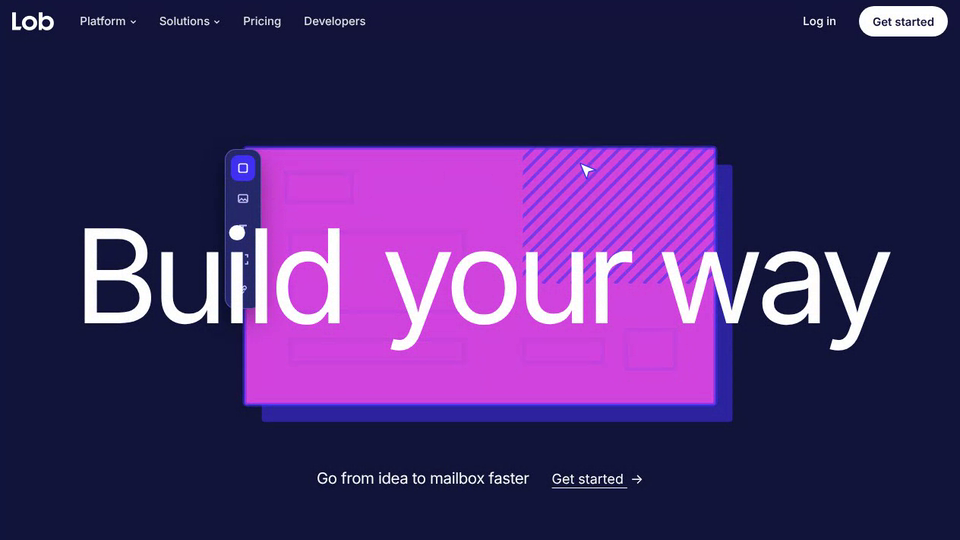
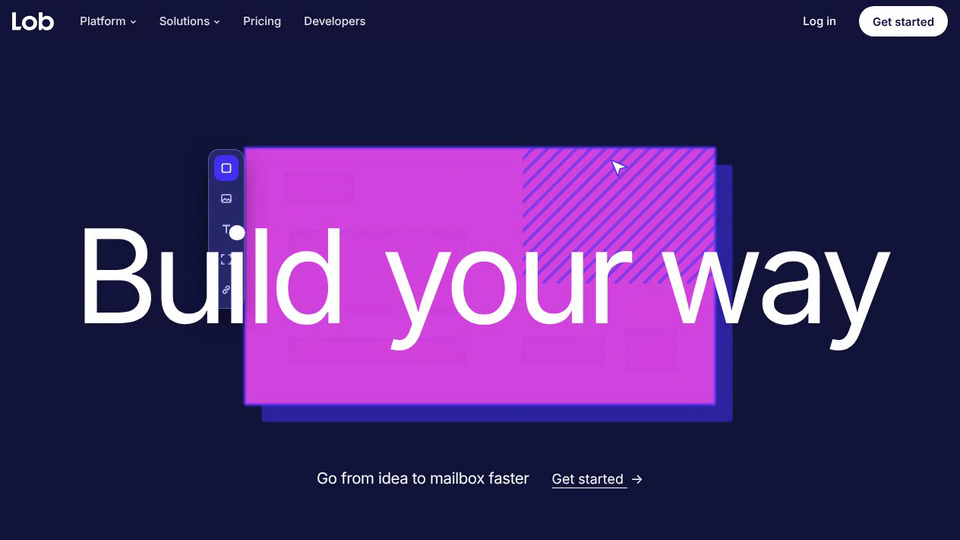
Lob Get Started: roomier hero UI, square QR, boxes stay on the card
Gallery has no image labels and more padding, and sits further right;
QA checks card has more padding; the tool rail sits further left; the
QR card is a plain square; the merge tag and URL pills have more
internal padding; the outlined boxes of the abstract build start and
stay inside the card; the stage is a little narrower on phones so the
gallery is not cut off.

Claude-Session: https://claude.ai/code/session_016rpgucWKf3te6zwsCQ1J4C

Changed region(s): [[0.2188, 0.2667, 0.2812, 0.5926], [0.5938, 0.2963, 0.6562, 0.3259]]

diff --git a/lob-get-started/index.html b/lob-get-started/index.html
@@ -130,27 +130,27 @@ html body nav.back:not(.sb-panel):not(:has(>div))>a,html body nav.back:not(.sb-p
 .qa{position:absolute;left:50%;top:8px;transform:translateX(-50%) translateY(6px);height:30px;padding:0 14px;border-radius:99px;background:#262a6b;border:1px solid rgba(169,156,255,.5);color:#fff;display:flex;align-items:center;gap:8px;font:700 11px var(--sans);letter-spacing:.12em;white-space:nowrap;opacity:0;transition:opacity .3s,transform .3s;z-index:3}
 .qa.on{opacity:1;transform:translateX(-50%)}
 .qa i{width:18px;height:18px;border-radius:5px;background:var(--mint);display:grid;place-items:center;font-style:normal;font-size:11px;color:var(--pu)}
-.rail{position:absolute;left:14px;top:48px;width:48px;padding:7px;border-radius:14px;background:#262a6b;border:1px solid rgba(169,156,255,.4);display:flex;flex-direction:column;gap:6px;box-shadow:0 14px 30px rgba(0,0,0,.35);opacity:0;transform:translateX(-8px);transition:opacity .35s,transform .35s;z-index:3}
+.rail{position:absolute;left:-8px;top:48px;width:48px;padding:7px;border-radius:14px;background:#262a6b;border:1px solid rgba(169,156,255,.4);display:flex;flex-direction:column;gap:6px;box-shadow:0 14px 30px rgba(0,0,0,.35);opacity:0;transform:translateX(-8px);transition:opacity .35s,transform .35s;z-index:3}
 .rail.on{opacity:1;transform:none}
 .rail b{height:34px;border-radius:9px;display:grid;place-items:center;color:#c9c4ff;transition:background .2s,color .2s}
 .rail b svg{width:16px;height:16px}
 .rail b.on{background:var(--pu);color:#fff}
-.gal{position:absolute;left:430px;top:-10px;width:280px;padding:12px;border-radius:12px;background:#262a6b;border:1px solid rgba(169,156,255,.4);color:#fff;box-shadow:0 18px 40px rgba(0,0,0,.4);opacity:0;transform:translateY(-8px);transition:opacity .35s,transform .35s;z-index:3}
+.gal{position:absolute;left:468px;top:-14px;width:284px;padding:16px;border-radius:12px;background:#262a6b;border:1px solid rgba(169,156,255,.4);color:#fff;box-shadow:0 18px 40px rgba(0,0,0,.4);opacity:0;transform:translateY(-8px);transition:opacity .35s,transform .35s;z-index:3}
 .gal.on{opacity:1;transform:none}
-.gal .gt{display:flex;justify-content:space-between;font:600 12px var(--sans);margin-bottom:9px}
+.gal .gt{display:flex;justify-content:space-between;font:600 12px var(--sans);margin-bottom:12px}
 .gal .gn{color:#a99cff;font-weight:500}
-.gal .gth{display:grid;grid-template-columns:1fr 1fr 1fr;gap:9px}
+.gal .gth{display:grid;grid-template-columns:1fr 1fr 1fr;gap:10px}
 .gal .g div{aspect-ratio:1.05;border-radius:7px;background-size:cover;background-position:center;outline:3px solid transparent;outline-offset:2px;transition:outline-color .25s}
 .gal .g.on div{outline-color:var(--hot)}
 .gal .g small{display:block;margin-top:6px;font:600 10.5px var(--sans)}
-.chk{position:absolute;left:0;top:300px;width:250px;padding:12px 12px 10px;border-radius:12px;background:#262a6b;border:1px solid rgba(169,156,255,.4);color:#fff;box-shadow:0 18px 40px rgba(0,0,0,.4);opacity:0;transform:translateY(8px);transition:opacity .35s,transform .35s;z-index:3}
+.chk{position:absolute;left:0;top:252px;width:272px;padding:16px 18px 16px;border-radius:12px;background:#262a6b;border:1px solid rgba(169,156,255,.4);color:#fff;box-shadow:0 18px 40px rgba(0,0,0,.4);opacity:0;transform:translateY(8px);transition:opacity .35s,transform .35s;z-index:3}
 .chk.on{opacity:1;transform:none}
-.chk .ct{font:700 10px var(--sans);letter-spacing:.14em;color:#a99cff;margin-bottom:4px;text-transform:uppercase}
-.chk .cr{display:flex;align-items:center;justify-content:space-between;height:27px;font:500 13px var(--sans);border-top:1px solid rgba(255,255,255,.12)}
+.chk .ct{font:700 10px var(--sans);letter-spacing:.14em;color:#a99cff;margin-bottom:8px;text-transform:uppercase}
+.chk .cr{display:flex;align-items:center;justify-content:space-between;height:36px;font:500 13.5px var(--sans);border-top:1px solid rgba(255,255,255,.12)}
 .chk .cr i{width:20px;height:20px;border-radius:6px;background:rgba(255,255,255,.12);display:grid;place-items:center;transform:scale(.8);transition:background .25s,transform .35s cubic-bezier(.2,1.8,.4,1)}
 .chk .cr.ok i{background:var(--mint);transform:none}
 .chk .cr.ok i::after{content:"";width:8px;height:4px;border-left:2px solid var(--pu);border-bottom:2px solid var(--pu);transform:rotate(-45deg) translate(1px,-1px)}
-.chk .csv{display:flex;align-items:center;gap:7px;margin-top:6px;padding:6px 8px;border-radius:8px;background:rgba(255,255,255,.08);font:700 9.5px var(--sans);letter-spacing:.1em;opacity:0;transition:opacity .3s}
+.chk .csv{display:flex;align-items:center;gap:8px;margin-top:10px;padding:9px 11px;border-radius:8px;background:rgba(255,255,255,.08);font:700 9.5px var(--sans);letter-spacing:.1em;opacity:0;transition:opacity .3s}
 .chk .csv.on{opacity:1}
 .chk .csv b{margin-left:auto;font:600 10px ui-monospace,Menlo,monospace;letter-spacing:0;color:var(--hot)}
 .hcur{position:absolute;left:0;top:0;width:22px;height:22px;z-index:5;opacity:0;transition:opacity .3s;pointer-events:none}
@@ -165,7 +165,7 @@ html body nav.back:not(.sb-panel):not(:has(>div))>a,html body nav.back:not(.sb-p
 .sub .tl span{display:inline-block;margin-left:4px;transition:transform .2s}.sub .tl:hover span{transform:translateX(3px)}
 @media (max-width:640px){
   .stage{height:min(62vh,460px)}
-  .col{width:92vw}
+  .col{width:82vw;margin-left:-2vw}
   .words{font-size:12.5vw;white-space:nowrap}
   .sub{flex-direction:column;gap:10px;text-align:center}
 }
@@ -392,7 +392,7 @@ footer nav{display:flex;gap:22px;margin-left:auto;flex-wrap:wrap}
           <b data-t="link"><svg viewBox="0 0 16 16"><path d="M6.5 9.5l3-3M6 7.5L4.3 9.2a2.2 2.2 0 003.1 3.1L9 10.6M10 8.5l1.7-1.7a2.2 2.2 0 00-3.1-3.1L7 5.4" fill="none" stroke="currentColor" stroke-width="1.5" stroke-linecap="round"/></svg></b>
         </div>
         <div class="gal" id="gal"><div class="gt"><span>Images ›</span><span class="gn">Healthcare</span></div>
-          <div class="gth"><div class="g" id="g1"><div style="background-image:url(assets/care-1.webp)"></div><small>Care team</small></div><div class="g" id="g2"><div style="background-image:url(assets/care-2.webp);background-position:62% 30%"></div><small>Check-up</small></div><div class="g" id="g3"><div style="background-image:url(assets/care-3.webp);background-position:45% 30%"></div><small>Wellness</small></div></div></div>
+          <div class="gth"><div class="g" id="g1"><div style="background-image:url(assets/care-1.webp)"></div></div><div class="g" id="g2"><div style="background-image:url(assets/care-2.webp);background-position:62% 30%"></div></div><div class="g" id="g3"><div style="background-image:url(assets/care-3.webp);background-position:45% 30%"></div></div></div></div>
         <div class="chk" id="chk"><div class="ct">QA checks</div>
           <div class="cr" id="cr1"><span>Deliverability</span><i></i></div>
           <div class="cr" id="cr2"><span>QR code correct</span><i></i></div>
@@ -552,7 +552,8 @@ const POSES = [
   [[285, 405, 108, 60], [147, 654, 284, 160], [976, 809, 80, 80], [302, 873, 284, 46], [661, 873, 130, 46]],
   [[407, 838, 108, 58], [302, 574, 284, 160], [302, 827, 80, 80], [610, 827, 285, 48], [764, 895, 130, 48]],
   [[302, 562, 108, 58], [302, 668, 284, 160], [819, 853, 80, 80], [302, 873, 284, 46], [661, 873, 130, 46]]
-].map((p) => p.map(([x, y, w, h]) => [(x - 243) * CW0 / 714, y - 516, w * CW0 / 714, h]));
+].map((p) => p.map(([x, y, w, h]) => { w = w * CW0 / 714; const pad = 30;   // every box starts and stays inside the card
+  return [Math.min(Math.max((x - 243) * CW0 / 714, pad), CW0 - w - pad), Math.min(Math.max(y - 516, pad), CH0 - h - pad), w, h]; }));
 const EL_ORDER = [3, 4, 2, 0, 1];
 const IMG1 = new Image(); IMG1.src = 'assets/care-1.webp';
 const IMG2 = new Image(); IMG2.src = 'assets/care-2.webp';
@@ -612,9 +613,9 @@ function drawDesign(t){
     if (!res) {
       cx.font = '600 25px ui-monospace, Menlo, monospace';
       const tw = cx.measureText('{{FirstName}}').width;
-      if (chipIn > 0) { cx.save(); cx.translate(53, 76); cx.scale(chipIn, chipIn); rr(0, -25, tw + 20, 38, 8); cx.fillStyle = HOT; cx.fill(); cx.fillStyle = WHITE; cx.fillText('{{FirstName}}', 10, 3); cx.restore(); }
+      if (chipIn > 0) { cx.save(); cx.translate(53, 76); cx.scale(chipIn, chipIn); rr(0, -30, tw + 36, 50, 12); cx.fillStyle = HOT; cx.fill(); cx.fillStyle = WHITE; cx.textBaseline = 'middle'; cx.fillText('{{FirstName}}', 18, -4); cx.restore(); }
       cx.font = '500 38px Inter, Helvetica, Arial, sans-serif'; cx.fillStyle = WHITE;
-      if (n > 0) cx.fillText(',', 53 + tw + 24, 90);
+      if (n > 0) cx.fillText(',', 53 + tw + 40, 90);
     } else {
       const pop = popIn((t - 13.0) / .35);
       cx.font = '500 38px Inter, Helvetica, Arial, sans-serif';
@@ -625,14 +626,14 @@ function drawDesign(t){
     }
     cx.font = '500 38px Inter, Helvetica, Arial, sans-serif'; cx.fillStyle = WHITE;
     const l2 = REST.slice(0, Math.max(0, n - 1));
-    cx.fillText(l2, 53, 140);
-    if (t < 9.8 && Math.floor(t * 4) % 2 === 0) { cx.fillStyle = PINK; cx.fillRect(53 + cx.measureText(l2).width + 3, 108, 3, 38); }
+    cx.fillText(l2, 53, 148);
+    if (t < 9.8 && Math.floor(t * 4) % 2 === 0) { cx.fillStyle = PINK; cx.fillRect(53 + cx.measureText(l2).width + 3, 116, 3, 38); }
     cx.restore();
   }
   // checklist: check circles pop, bars grow, later real text
   const ct = span(t, 9.8, 10.1);
   for (let k = 0; k < 2; k++) {
-    const y = 200 + k * 42;
+    const y = 206 + k * 42;
     const pc = popIn((t - 6.9 - k * .25) / .35);
     if (pc > 0) checkMark(65, y, pc);
     const g = easeIO(span(t, 7.0 + k * .25, 7.5 + k * .25));
@@ -642,30 +643,31 @@ function drawDesign(t){
   // QR card: pops in with brackets, later the real code draws in
   const q = popIn((t - 8.1) / .4);
   if (q > 0) {
-    cx.save(); cx.translate(57 + 46, 298 + 75); cx.scale(q, q); cx.translate(-46, -75);
-    cx.fillStyle = WHITE; cx.fillRect(0, 0, 92, 150);
-    if (t >= 16.7 && t < 17.4) { cx.strokeStyle = HOT; cx.lineWidth = 6; cx.strokeRect(-3, -3, 98, 156); }
+    cx.save(); cx.translate(57 + 58, 336 + 58); cx.scale(q, q); cx.translate(-58, -58);
+    cx.fillStyle = WHITE; cx.fillRect(0, 0, 116, 116);
+    if (t >= 16.7 && t < 17.4) { cx.strokeStyle = HOT; cx.lineWidth = 6; cx.strokeRect(-3, -3, 122, 122); }
     const qr = span(t, 10.3, 10.9);
-    cx.save(); cx.globalAlpha = 1 - qr; cx.strokeStyle = PU; cx.lineWidth = 3.4;
-    const br = (x, y, dx, dy) => { cx.beginPath(); cx.moveTo(x + dx * 14, y); cx.lineTo(x, y); cx.lineTo(x, y + dy * 14); cx.stroke(); };
-    br(22, 22, 1, 1); br(70, 22, -1, 1); br(22, 70, 1, -1); br(70, 70, -1, -1); cx.restore();
-    if (qr > 0) { cx.save(); cx.beginPath(); cx.rect(10, 10, 72, 72 * qr); cx.clip(); cx.fillStyle = '#1e2245'; const m = 72 / 25; for (const [x, y] of QRM) cx.fillRect(10 + x * m, 10 + y * m, m + .2, m + .2); cx.restore(); }
-    cx.fillStyle = '#e4e4f0'; rr(16, 98, 60, 8, 4); cx.fill(); rr(16, 114, 46, 8, 4); cx.fill();
+    cx.save(); cx.globalAlpha = 1 - qr; cx.strokeStyle = PU; cx.lineWidth = 3.6;
+    const br = (x, y, dx, dy) => { cx.beginPath(); cx.moveTo(x + dx * 16, y); cx.lineTo(x, y); cx.lineTo(x, y + dy * 16); cx.stroke(); };
+    br(28, 28, 1, 1); br(88, 28, -1, 1); br(28, 88, 1, -1); br(88, 88, -1, -1); cx.restore();
+    if (qr > 0) { cx.save(); cx.beginPath(); cx.rect(12, 12, 92, 92 * qr); cx.clip(); cx.fillStyle = '#1e2245'; const m = 92 / 25; for (const [x, y] of QRM) cx.fillRect(12 + x * m, 12 + y * m, m + .2, m + .2); cx.restore(); }
     cx.restore();
   }
   // URL: two bars and a pill, later the PURL on hot pink
   const g1 = easeIO(span(t, 7.7, 8.2)), g2 = easeIO(span(t, 7.85, 8.35));
   cx.fillStyle = PU;
-  if (g1 > 0) { rr(176, 346, 160 * g1, 12, 6); cx.fill(); }
-  if (g2 > 0) { rr(176, 366, 118 * g2, 12, 6); cx.fill(); }
+  if (g1 > 0) { rr(200, 350, 160 * g1, 12, 6); cx.fill(); }
+  if (g2 > 0) { rr(200, 371, 118 * g2, 12, 6); cx.fill(); }
   const pp = popIn((t - 8.0) / .4);
   if (pp > 0) {
     const fillp = span(t, 10.0, 10.3);
-    cx.save(); cx.translate(176, 418); cx.scale(pp, pp);
+    cx.save(); cx.translate(200, 428); cx.scale(pp, pp);
     const res = t >= 13.0, U = res ? 'lobhealth.com/you' : '{{URL}}';
-    rr(0, -19, res ? 230 : 130, 38, 19); cx.fillStyle = 'rgba(65,49,241,' + fillp + ')'; cx.fill(); cx.strokeStyle = PU; cx.lineWidth = 4; cx.stroke();
+    cx.font = res ? '600 18px Inter, Helvetica, Arial, sans-serif' : '600 18px ui-monospace, Menlo, monospace';
+    const pw = Math.max(150, cx.measureText(U).width + 52);
+    rr(0, -24, pw, 48, 24); cx.fillStyle = 'rgba(65,49,241,' + fillp + ')'; cx.fill(); cx.strokeStyle = PU; cx.lineWidth = 4; cx.stroke();
     const un = res ? U.length : Math.round(span(t, 10.05, 10.6) * U.length);
-    if (un > 0) { cx.fillStyle = WHITE; cx.font = res ? '600 17px Inter, Helvetica, Arial, sans-serif' : '600 17px ui-monospace, Menlo, monospace'; cx.textBaseline = 'middle'; cx.fillText(U.slice(0, un), 20, 1); }
+    if (un > 0) { cx.fillStyle = WHITE; cx.textBaseline = 'middle'; cx.fillText(U.slice(0, un), 26, 1); }
     cx.restore();
   }
   // logo block: a white bar, later the LobHealth wordmark
@@ -691,7 +693,7 @@ function drawCard(t){
   cx.restore();
 }
 // cursor keyframes in stage px: [t, x, y]
-const HK = [[0, 640, 470], [.4, 38, 65], [4.6, 38, 65], [5.0, 481, 66], [5.6, 481, 66], [6.2, 38, 145], [6.8, 38, 105], [7.6, 38, 225], [8.4, 38, 185], [8.8, 38, 145], [9.9, 38, 225], [10.5, 38, 185], [11.0, 570, 66], [11.6, 570, 68], [11.9, 659, 66], [12.6, 659, 68], [13.1, 760, 470], [LOOP, 760, 470]];
+const HK = [[0, 640, 470], [.4, 16, 65], [4.6, 16, 65], [5.0, 522, 62], [5.6, 522, 62], [6.2, 16, 145], [6.8, 16, 105], [7.6, 16, 225], [8.4, 16, 185], [8.8, 16, 145], [9.9, 16, 225], [10.5, 16, 185], [11.0, 608, 62], [11.6, 608, 64], [11.9, 694, 62], [12.6, 694, 64], [13.1, 760, 470], [LOOP, 760, 470]];
 function at(t, K){ for (let i = 1; i < K.length; i++) if (t <= K[i][0]) { const a = K[i - 1], b = K[i]; const k = easeIO((t - a[0]) / (b[0] - a[0] || 1)); return [lerp(a[1], b[1], k), lerp(a[2], b[2], k)]; } return K[K.length - 1].slice(1); }
 const tog = (el, c, on) => el.classList.toggle(c, !!on);
 function heroAt(t, S){
